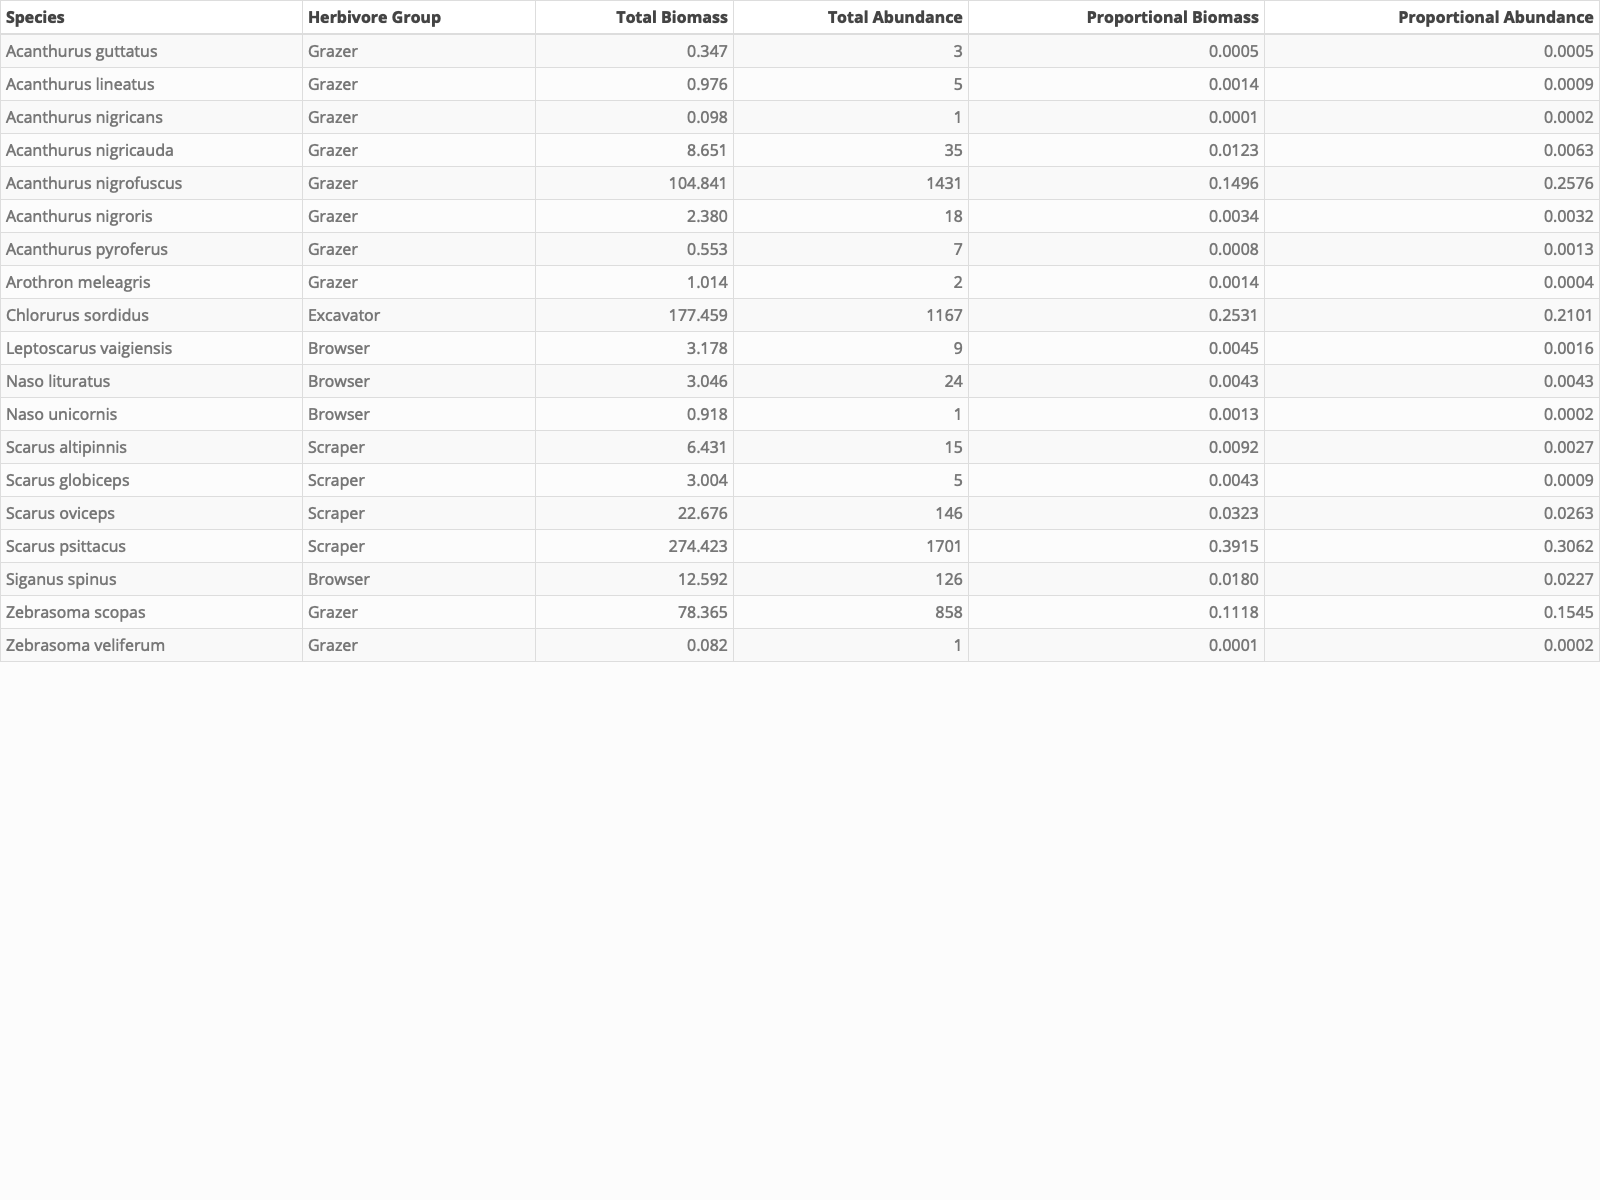
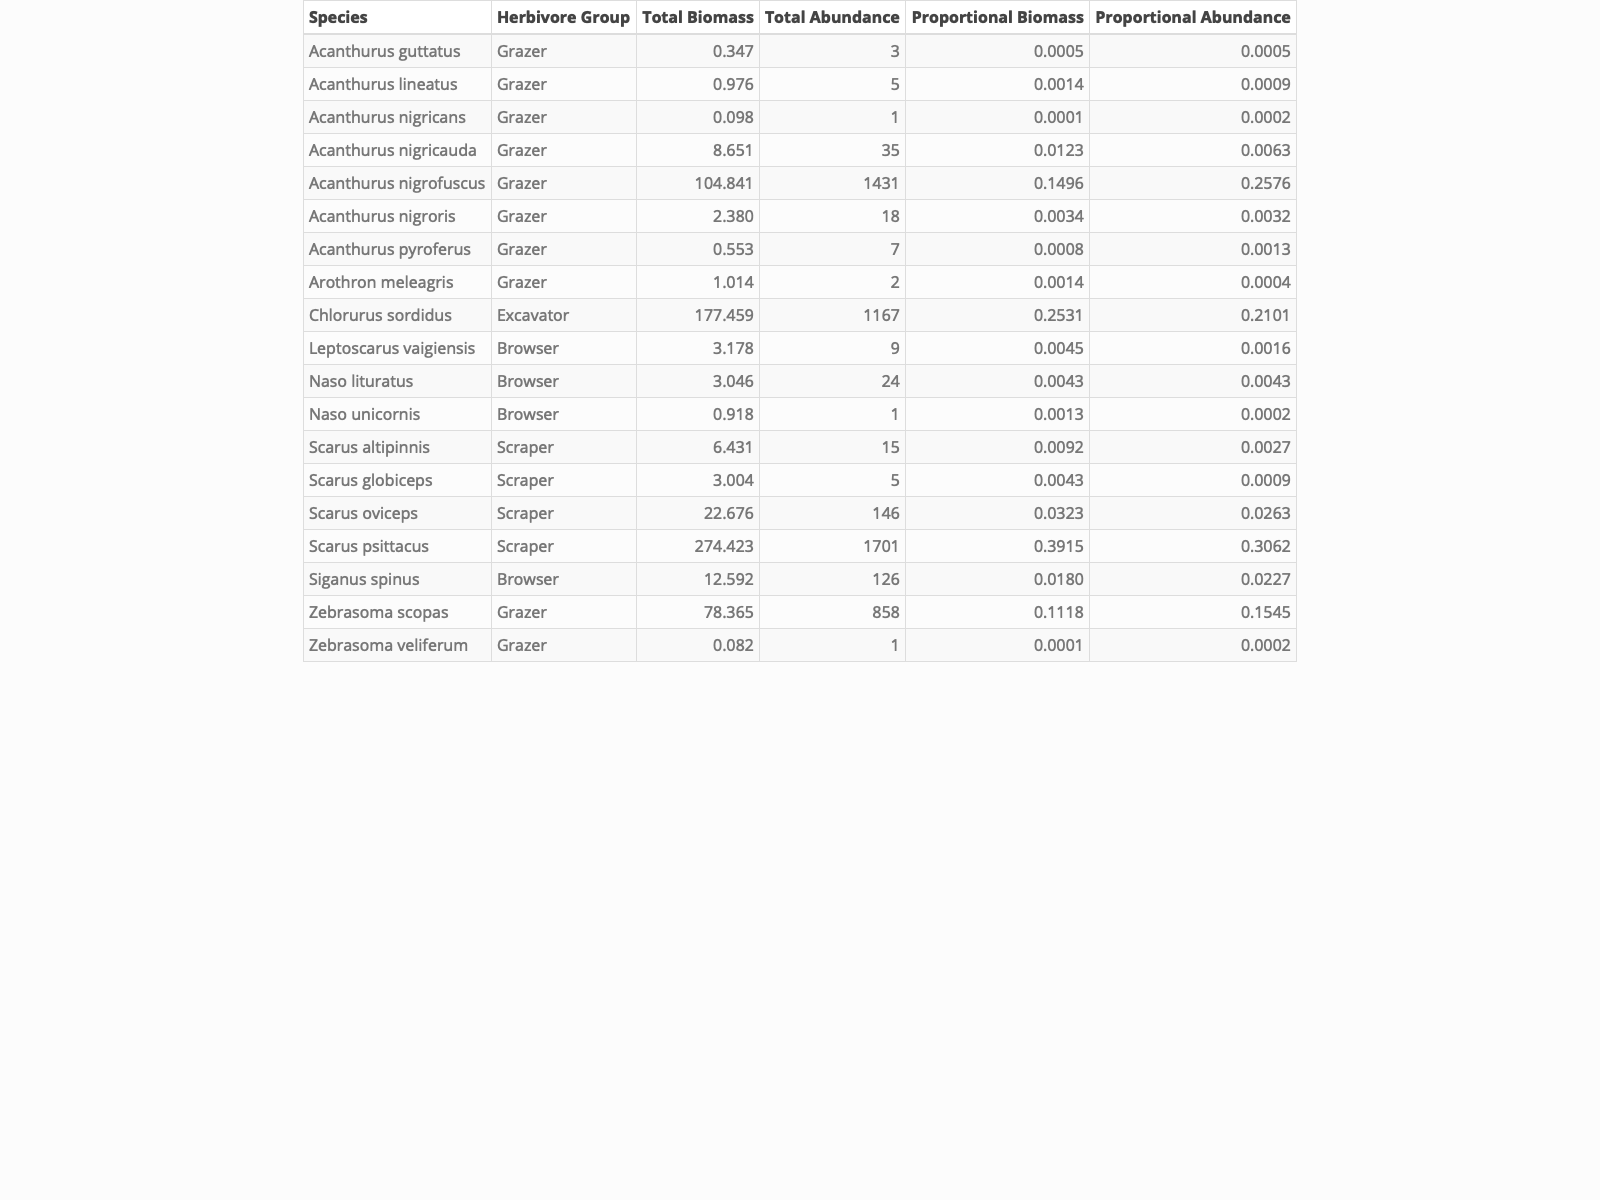
Updated SI table 1 herbivore table to have narrower columns

diff --git a/output/herbivore_table.html b/output/herbivore_table.html
@@ -280,7 +280,7 @@ border: 0;
 
 </head>
 <body>
-<table class="table table-bordered table table-striped table-hover table-condensed table-responsive" style="margin-left: auto; margin-right: auto;">
+<table class="table table-bordered table table-striped table-hover table-condensed table-responsive" style="width: auto !important; margin-left: auto; margin-right: auto;">
  <thead>
   <tr>
    <th style="text-align:left;position: sticky; top:0; background-color: #FFFFFF;"> Species </th>
@@ -293,156 +293,156 @@ border: 0;
  </thead>
 <tbody>
   <tr>
-   <td style="text-align:left;width: auto; "> Acanthurus guttatus </td>
-   <td style="text-align:left;width: auto; "> Grazer </td>
-   <td style="text-align:right;width: auto; "> 0.347 </td>
-   <td style="text-align:right;width: auto; "> 3 </td>
-   <td style="text-align:right;width: auto; "> 0.0005 </td>
-   <td style="text-align:right;width: auto; "> 0.0005 </td>
+   <td style="text-align:left;"> Acanthurus guttatus </td>
+   <td style="text-align:left;"> Grazer </td>
+   <td style="text-align:right;"> 0.347 </td>
+   <td style="text-align:right;"> 3 </td>
+   <td style="text-align:right;"> 0.0005 </td>
+   <td style="text-align:right;"> 0.0005 </td>
   </tr>
   <tr>
-   <td style="text-align:left;width: auto; "> Acanthurus lineatus </td>
-   <td style="text-align:left;width: auto; "> Grazer </td>
-   <td style="text-align:right;width: auto; "> 0.976 </td>
-   <td style="text-align:right;width: auto; "> 5 </td>
-   <td style="text-align:right;width: auto; "> 0.0014 </td>
-   <td style="text-align:right;width: auto; "> 0.0009 </td>
+   <td style="text-align:left;"> Acanthurus lineatus </td>
+   <td style="text-align:left;"> Grazer </td>
+   <td style="text-align:right;"> 0.976 </td>
+   <td style="text-align:right;"> 5 </td>
+   <td style="text-align:right;"> 0.0014 </td>
+   <td style="text-align:right;"> 0.0009 </td>
   </tr>
   <tr>
-   <td style="text-align:left;width: auto; "> Acanthurus nigricans </td>
-   <td style="text-align:left;width: auto; "> Grazer </td>
-   <td style="text-align:right;width: auto; "> 0.098 </td>
-   <td style="text-align:right;width: auto; "> 1 </td>
-   <td style="text-align:right;width: auto; "> 0.0001 </td>
-   <td style="text-align:right;width: auto; "> 0.0002 </td>
+   <td style="text-align:left;"> Acanthurus nigricans </td>
+   <td style="text-align:left;"> Grazer </td>
+   <td style="text-align:right;"> 0.098 </td>
+   <td style="text-align:right;"> 1 </td>
+   <td style="text-align:right;"> 0.0001 </td>
+   <td style="text-align:right;"> 0.0002 </td>
   </tr>
   <tr>
-   <td style="text-align:left;width: auto; "> Acanthurus nigricauda </td>
-   <td style="text-align:left;width: auto; "> Grazer </td>
-   <td style="text-align:right;width: auto; "> 8.651 </td>
-   <td style="text-align:right;width: auto; "> 35 </td>
-   <td style="text-align:right;width: auto; "> 0.0123 </td>
-   <td style="text-align:right;width: auto; "> 0.0063 </td>
+   <td style="text-align:left;"> Acanthurus nigricauda </td>
+   <td style="text-align:left;"> Grazer </td>
+   <td style="text-align:right;"> 8.651 </td>
+   <td style="text-align:right;"> 35 </td>
+   <td style="text-align:right;"> 0.0123 </td>
+   <td style="text-align:right;"> 0.0063 </td>
   </tr>
   <tr>
-   <td style="text-align:left;width: auto; "> Acanthurus nigrofuscus </td>
-   <td style="text-align:left;width: auto; "> Grazer </td>
-   <td style="text-align:right;width: auto; "> 104.841 </td>
-   <td style="text-align:right;width: auto; "> 1431 </td>
-   <td style="text-align:right;width: auto; "> 0.1496 </td>
-   <td style="text-align:right;width: auto; "> 0.2576 </td>
+   <td style="text-align:left;"> Acanthurus nigrofuscus </td>
+   <td style="text-align:left;"> Grazer </td>
+   <td style="text-align:right;"> 104.841 </td>
+   <td style="text-align:right;"> 1431 </td>
+   <td style="text-align:right;"> 0.1496 </td>
+   <td style="text-align:right;"> 0.2576 </td>
   </tr>
   <tr>
-   <td style="text-align:left;width: auto; "> Acanthurus nigroris </td>
-   <td style="text-align:left;width: auto; "> Grazer </td>
-   <td style="text-align:right;width: auto; "> 2.380 </td>
-   <td style="text-align:right;width: auto; "> 18 </td>
-   <td style="text-align:right;width: auto; "> 0.0034 </td>
-   <td style="text-align:right;width: auto; "> 0.0032 </td>
+   <td style="text-align:left;"> Acanthurus nigroris </td>
+   <td style="text-align:left;"> Grazer </td>
+   <td style="text-align:right;"> 2.380 </td>
+   <td style="text-align:right;"> 18 </td>
+   <td style="text-align:right;"> 0.0034 </td>
+   <td style="text-align:right;"> 0.0032 </td>
   </tr>
   <tr>
-   <td style="text-align:left;width: auto; "> Acanthurus pyroferus </td>
-   <td style="text-align:left;width: auto; "> Grazer </td>
-   <td style="text-align:right;width: auto; "> 0.553 </td>
-   <td style="text-align:right;width: auto; "> 7 </td>
-   <td style="text-align:right;width: auto; "> 0.0008 </td>
-   <td style="text-align:right;width: auto; "> 0.0013 </td>
+   <td style="text-align:left;"> Acanthurus pyroferus </td>
+   <td style="text-align:left;"> Grazer </td>
+   <td style="text-align:right;"> 0.553 </td>
+   <td style="text-align:right;"> 7 </td>
+   <td style="text-align:right;"> 0.0008 </td>
+   <td style="text-align:right;"> 0.0013 </td>
   </tr>
   <tr>
-   <td style="text-align:left;width: auto; "> Arothron meleagris </td>
-   <td style="text-align:left;width: auto; "> Grazer </td>
-   <td style="text-align:right;width: auto; "> 1.014 </td>
-   <td style="text-align:right;width: auto; "> 2 </td>
-   <td style="text-align:right;width: auto; "> 0.0014 </td>
-   <td style="text-align:right;width: auto; "> 0.0004 </td>
+   <td style="text-align:left;"> Arothron meleagris </td>
+   <td style="text-align:left;"> Grazer </td>
+   <td style="text-align:right;"> 1.014 </td>
+   <td style="text-align:right;"> 2 </td>
+   <td style="text-align:right;"> 0.0014 </td>
+   <td style="text-align:right;"> 0.0004 </td>
   </tr>
   <tr>
-   <td style="text-align:left;width: auto; "> Chlorurus sordidus </td>
-   <td style="text-align:left;width: auto; "> Excavator </td>
-   <td style="text-align:right;width: auto; "> 177.459 </td>
-   <td style="text-align:right;width: auto; "> 1167 </td>
-   <td style="text-align:right;width: auto; "> 0.2531 </td>
-   <td style="text-align:right;width: auto; "> 0.2101 </td>
+   <td style="text-align:left;"> Chlorurus sordidus </td>
+   <td style="text-align:left;"> Excavator </td>
+   <td style="text-align:right;"> 177.459 </td>
+   <td style="text-align:right;"> 1167 </td>
+   <td style="text-align:right;"> 0.2531 </td>
+   <td style="text-align:right;"> 0.2101 </td>
   </tr>
   <tr>
-   <td style="text-align:left;width: auto; "> Leptoscarus vaigiensis </td>
-   <td style="text-align:left;width: auto; "> Browser </td>
-   <td style="text-align:right;width: auto; "> 3.178 </td>
-   <td style="text-align:right;width: auto; "> 9 </td>
-   <td style="text-align:right;width: auto; "> 0.0045 </td>
-   <td style="text-align:right;width: auto; "> 0.0016 </td>
+   <td style="text-align:left;"> Leptoscarus vaigiensis </td>
+   <td style="text-align:left;"> Browser </td>
+   <td style="text-align:right;"> 3.178 </td>
+   <td style="text-align:right;"> 9 </td>
+   <td style="text-align:right;"> 0.0045 </td>
+   <td style="text-align:right;"> 0.0016 </td>
   </tr>
   <tr>
-   <td style="text-align:left;width: auto; "> Naso lituratus </td>
-   <td style="text-align:left;width: auto; "> Browser </td>
-   <td style="text-align:right;width: auto; "> 3.046 </td>
-   <td style="text-align:right;width: auto; "> 24 </td>
-   <td style="text-align:right;width: auto; "> 0.0043 </td>
-   <td style="text-align:right;width: auto; "> 0.0043 </td>
+   <td style="text-align:left;"> Naso lituratus </td>
+   <td style="text-align:left;"> Browser </td>
+   <td style="text-align:right;"> 3.046 </td>
+   <td style="text-align:right;"> 24 </td>
+   <td style="text-align:right;"> 0.0043 </td>
+   <td style="text-align:right;"> 0.0043 </td>
   </tr>
   <tr>
-   <td style="text-align:left;width: auto; "> Naso unicornis </td>
-   <td style="text-align:left;width: auto; "> Browser </td>
-   <td style="text-align:right;width: auto; "> 0.918 </td>
-   <td style="text-align:right;width: auto; "> 1 </td>
-   <td style="text-align:right;width: auto; "> 0.0013 </td>
-   <td style="text-align:right;width: auto; "> 0.0002 </td>
+   <td style="text-align:left;"> Naso unicornis </td>
+   <td style="text-align:left;"> Browser </td>
+   <td style="text-align:right;"> 0.918 </td>
+   <td style="text-align:right;"> 1 </td>
+   <td style="text-align:right;"> 0.0013 </td>
+   <td style="text-align:right;"> 0.0002 </td>
   </tr>
   <tr>
-   <td style="text-align:left;width: auto; "> Scarus altipinnis </td>
-   <td style="text-align:left;width: auto; "> Scraper </td>
-   <td style="text-align:right;width: auto; "> 6.431 </td>
-   <td style="text-align:right;width: auto; "> 15 </td>
-   <td style="text-align:right;width: auto; "> 0.0092 </td>
-   <td style="text-align:right;width: auto; "> 0.0027 </td>
+   <td style="text-align:left;"> Scarus altipinnis </td>
+   <td style="text-align:left;"> Scraper </td>
+   <td style="text-align:right;"> 6.431 </td>
+   <td style="text-align:right;"> 15 </td>
+   <td style="text-align:right;"> 0.0092 </td>
+   <td style="text-align:right;"> 0.0027 </td>
   </tr>
   <tr>
-   <td style="text-align:left;width: auto; "> Scarus globiceps </td>
-   <td style="text-align:left;width: auto; "> Scraper </td>
-   <td style="text-align:right;width: auto; "> 3.004 </td>
-   <td style="text-align:right;width: auto; "> 5 </td>
-   <td style="text-align:right;width: auto; "> 0.0043 </td>
-   <td style="text-align:right;width: auto; "> 0.0009 </td>
+   <td style="text-align:left;"> Scarus globiceps </td>
+   <td style="text-align:left;"> Scraper </td>
+   <td style="text-align:right;"> 3.004 </td>
+   <td style="text-align:right;"> 5 </td>
+   <td style="text-align:right;"> 0.0043 </td>
+   <td style="text-align:right;"> 0.0009 </td>
   </tr>
   <tr>
-   <td style="text-align:left;width: auto; "> Scarus oviceps </td>
-   <td style="text-align:left;width: auto; "> Scraper </td>
-   <td style="text-align:right;width: auto; "> 22.676 </td>
-   <td style="text-align:right;width: auto; "> 146 </td>
-   <td style="text-align:right;width: auto; "> 0.0323 </td>
-   <td style="text-align:right;width: auto; "> 0.0263 </td>
+   <td style="text-align:left;"> Scarus oviceps </td>
+   <td style="text-align:left;"> Scraper </td>
+   <td style="text-align:right;"> 22.676 </td>
+   <td style="text-align:right;"> 146 </td>
+   <td style="text-align:right;"> 0.0323 </td>
+   <td style="text-align:right;"> 0.0263 </td>
   </tr>
   <tr>
-   <td style="text-align:left;width: auto; "> Scarus psittacus </td>
-   <td style="text-align:left;width: auto; "> Scraper </td>
-   <td style="text-align:right;width: auto; "> 274.423 </td>
-   <td style="text-align:right;width: auto; "> 1701 </td>
-   <td style="text-align:right;width: auto; "> 0.3915 </td>
-   <td style="text-align:right;width: auto; "> 0.3062 </td>
+   <td style="text-align:left;"> Scarus psittacus </td>
+   <td style="text-align:left;"> Scraper </td>
+   <td style="text-align:right;"> 274.423 </td>
+   <td style="text-align:right;"> 1701 </td>
+   <td style="text-align:right;"> 0.3915 </td>
+   <td style="text-align:right;"> 0.3062 </td>
   </tr>
   <tr>
-   <td style="text-align:left;width: auto; "> Siganus spinus </td>
-   <td style="text-align:left;width: auto; "> Browser </td>
-   <td style="text-align:right;width: auto; "> 12.592 </td>
-   <td style="text-align:right;width: auto; "> 126 </td>
-   <td style="text-align:right;width: auto; "> 0.0180 </td>
-   <td style="text-align:right;width: auto; "> 0.0227 </td>
+   <td style="text-align:left;"> Siganus spinus </td>
+   <td style="text-align:left;"> Browser </td>
+   <td style="text-align:right;"> 12.592 </td>
+   <td style="text-align:right;"> 126 </td>
+   <td style="text-align:right;"> 0.0180 </td>
+   <td style="text-align:right;"> 0.0227 </td>
   </tr>
   <tr>
-   <td style="text-align:left;width: auto; "> Zebrasoma scopas </td>
-   <td style="text-align:left;width: auto; "> Grazer </td>
-   <td style="text-align:right;width: auto; "> 78.365 </td>
-   <td style="text-align:right;width: auto; "> 858 </td>
-   <td style="text-align:right;width: auto; "> 0.1118 </td>
-   <td style="text-align:right;width: auto; "> 0.1545 </td>
+   <td style="text-align:left;"> Zebrasoma scopas </td>
+   <td style="text-align:left;"> Grazer </td>
+   <td style="text-align:right;"> 78.365 </td>
+   <td style="text-align:right;"> 858 </td>
+   <td style="text-align:right;"> 0.1118 </td>
+   <td style="text-align:right;"> 0.1545 </td>
   </tr>
   <tr>
-   <td style="text-align:left;width: auto; "> Zebrasoma veliferum </td>
-   <td style="text-align:left;width: auto; "> Grazer </td>
-   <td style="text-align:right;width: auto; "> 0.082 </td>
-   <td style="text-align:right;width: auto; "> 1 </td>
-   <td style="text-align:right;width: auto; "> 0.0001 </td>
-   <td style="text-align:right;width: auto; "> 0.0002 </td>
+   <td style="text-align:left;"> Zebrasoma veliferum </td>
+   <td style="text-align:left;"> Grazer </td>
+   <td style="text-align:right;"> 0.082 </td>
+   <td style="text-align:right;"> 1 </td>
+   <td style="text-align:right;"> 0.0001 </td>
+   <td style="text-align:right;"> 0.0002 </td>
   </tr>
 </tbody>
 </table>
